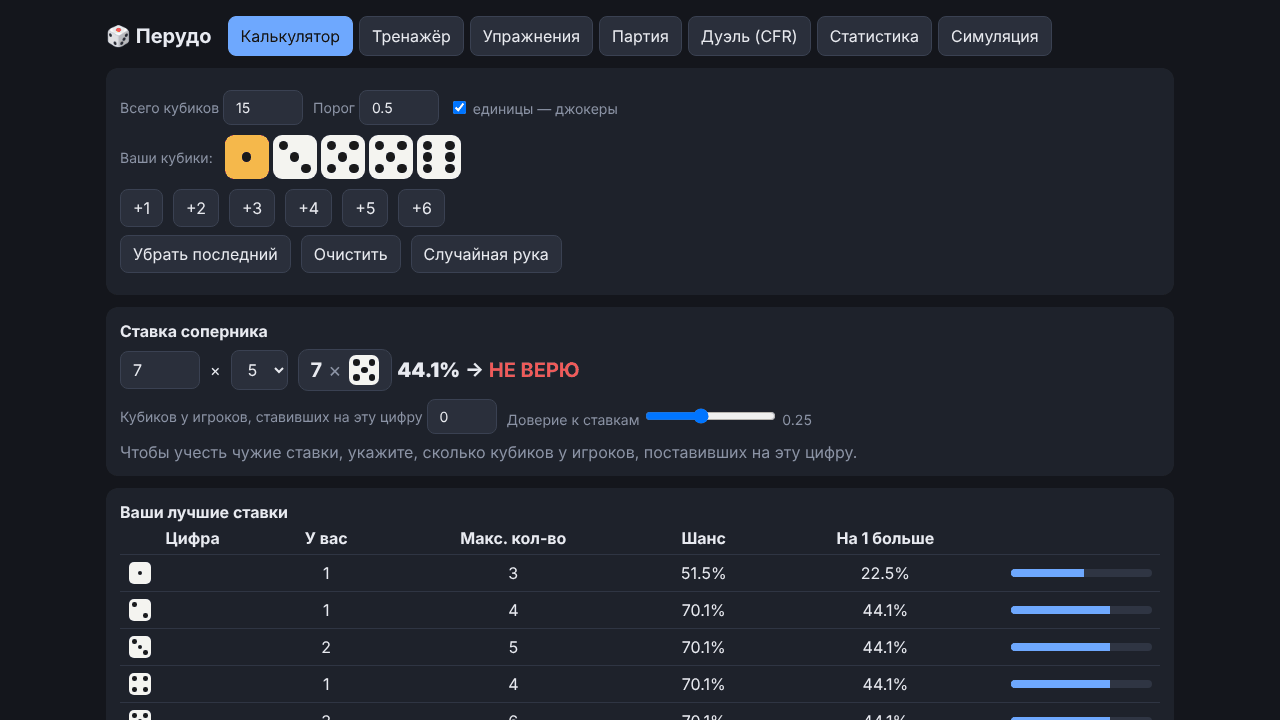
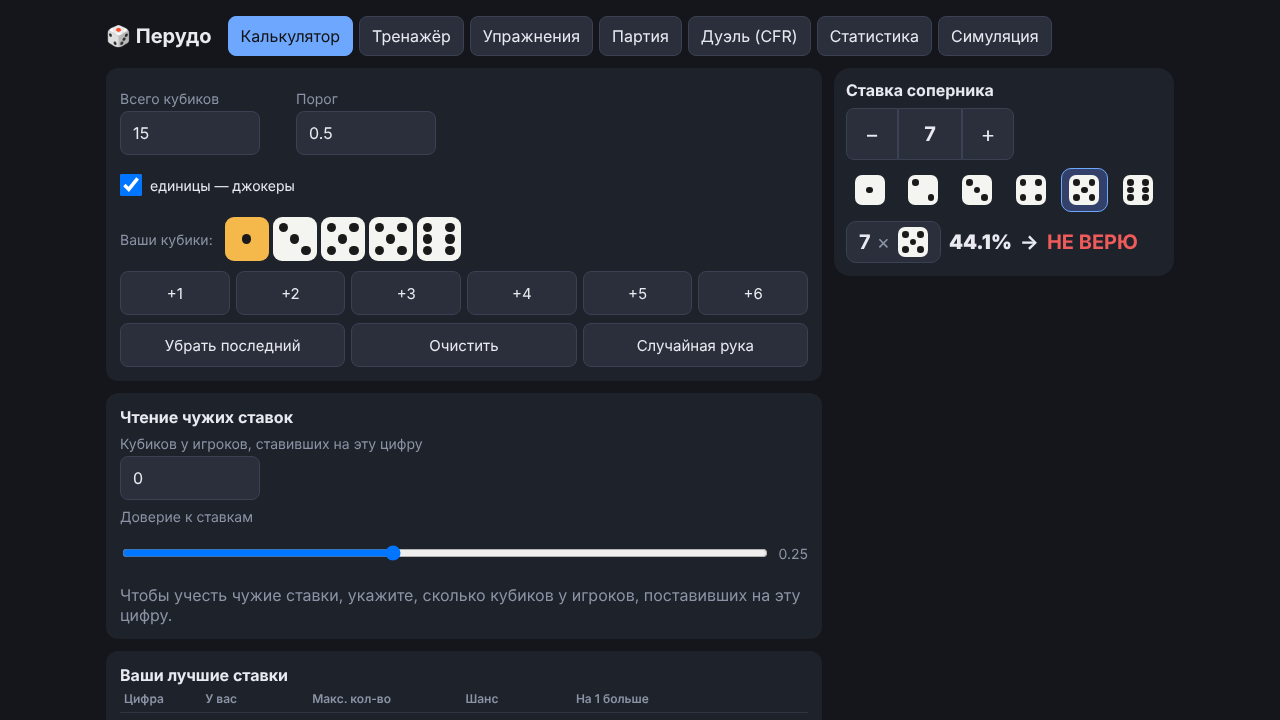
test: пороги вёрстки учебных вкладок, скриншоты и README
Измеритель layout_audit дополнен тестом test_learning_layout: на пяти размерах
нет горизонтальной прокрутки, элементов меньше 44px и полей меньше 16px.
Новые скриншоты Калькулятора, Тренажёра и Упражнений для телефона и компьютера,
README: раздел «Адаптивная вёрстка», таблица тестов, структура.

diff --git a/tests/test_learning_layout.py b/tests/test_learning_layout.py
@@ -1,0 +1,59 @@
+"""Вёрстка учебных вкладок (Калькулятор, Тренажёр, Упражнения) по измерителю layout_audit.
+
+Нулевые пороги на пяти размерах экрана: 360×640, 390×844, 844×390, 768×1024, 1366×768.
+Запуск:  python3 -m unittest tests.test_learning_layout
+"""
+import functools
+import http.server
+import os
+import threading
+import unittest
+
+from playwright.sync_api import sync_playwright
+
+from tests.layout_audit import ROOT, _Quiet, measure_all
+
+
+class LearningLayoutTest(unittest.TestCase):
+    @classmethod
+    def setUpClass(cls):
+        handler = functools.partial(_Quiet, directory=ROOT)
+        cls.httpd = http.server.ThreadingHTTPServer(("127.0.0.1", 0), handler)
+        threading.Thread(target=cls.httpd.serve_forever, daemon=True).start()
+        base = f"http://127.0.0.1:{cls.httpd.server_address[1]}/index.html"
+        with sync_playwright() as pw:
+            browser = pw.chromium.launch()
+            cls.rows = measure_all(base, browser)
+            browser.close()
+
+    @classmethod
+    def tearDownClass(cls):
+        cls.httpd.shutdown()
+
+    def label(self, r):
+        return f"{r['size']} · {r['state']}"
+
+    def test_all_states_were_measured(self):
+        self.assertEqual(len(self.rows), 5 * 6)
+
+    def test_no_horizontal_scroll(self):
+        bad = [self.label(r) for r in self.rows if r["hscroll"]]
+        self.assertEqual(bad, [])
+
+    def test_no_controls_smaller_than_44px(self):
+        bad = [f"{self.label(r)}: {r['small']}" for r in self.rows if r["small"]]
+        self.assertEqual(bad, [])
+
+    def test_no_inputs_with_font_below_16px(self):
+        bad = [f"{self.label(r)}: {r['font']}" for r in self.rows if r["font"]]
+        self.assertEqual(bad, [])
+
+    def test_result_is_inside_the_screen(self):
+        # «hint open»: разбор прокручивается внутри панели, нижний край блока там не показатель
+        bad = [f"{self.label(r)}: {r['result']:+d}" for r in self.rows
+               if r["result"] is not None and r["result"] > 0 and "hint open" not in r["state"]]
+        self.assertEqual(bad, [])
+
+
+if __name__ == "__main__":
+    unittest.main()

diff --git a/tests/layout_audit.py b/tests/layout_audit.py
@@ -2,9 +2,9 @@
 
 Запуск (из корня проекта):  python3 -m tests.layout_audit [--json]
 
-Печатает таблицу показателей на пяти размерах экрана. Пока ничего не проверяет
-и не падает: это исходные цифры для работ по вёрстке (см. рабочий план, шаг 0.4).
-На шаге 5 он превращается в тест с нулевыми порогами.
+Печатает таблицу показателей на пяти размерах экрана. Сам ничего не проверяет:
+пороги проверяет tests/test_learning_layout.py (он использует measure_all отсюда).
+Таблицу удобно смотреть глазами при правках вёрстки.
 
 Показатели на каждое состояние вкладки:
   hscroll   — у страницы есть горизонтальная прокрутка (1/0);
